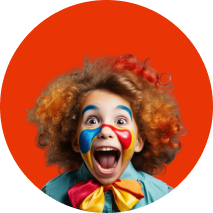
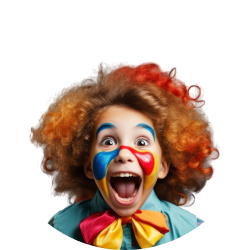
Update animation for media queries

diff --git a/src/components/main/main-page/hero/Hero.tsx b/src/components/main/main-page/hero/Hero.tsx
@@ -9,28 +9,10 @@ const Hero = () => {
   const locale = useLocale();
 
   return (
-    <section className=" 3x:mb-[120px] container relative mx-auto box-border flex max-w-screen-3xl flex-col   items-center justify-center md:mb-10 ml:mb-[120px]  lg:mb-10 xl:mb-10 4xl:mb-0">
-      <div className="group relative flex h-fit w-fit items-center justify-center ">
-        {/* <div className=" absolute  mt-[180px] xs:hidden md:block md:h-[520px] md:w-[650px] ml:h-[627px] ml:w-[810px] lg:h-[657px] lg:w-[950px] 3xl:h-[745px] 3xl:w-[878px]">
-          <div
-            className="3lg:top-[107px] absolute left-0 z-0 h-[329px] w-[329px] cursor-pointer rounded-full bg-yellow
-          transition-all duration-500 group-hover:translate-x-[400px] group-hover:translate-y-[480px] group-hover:bg-red   md:top-[31px]
-          md:h-[220px] md:w-[220px] ml:top-[39px] ml:h-[300px] ml:w-[300px] lg:h-[329px] lg:w-[329px]"
-          ></div>
-
-          <div className="absolute bottom-0 z-10 rounded-full bg-yellow transition-all duration-500 group-hover:translate-x-[186px]  group-hover:translate-y-[-531px] group-hover:bg-blue-50 md:right-[153px] md:h-[153px] md:w-[153px] ml:right-[187px] ml:h-[213px] ml:w-[213px]"></div>
-          <div className="group-hover:bg-green absolute  right-0 top-0 z-10 transition-all duration-500 group-hover:translate-x-[-600px] group-hover:translate-y-[100px]">
-            <Image
-              src="/images/heroSection/red_circle.png"
-              alt=""
-              width={213}
-              height={213}
-              className="  h-[153px] w-[153px]  ml:h-[213px] ml:w-[213px]"
-            />
-          </div>
-        </div> */}
+    <section className="container relative mx-auto box-border flex max-w-screen-3xl flex-col   items-center justify-center md:mb-10 ml:mb-[120px]  lg:mb-10 xl:mb-10 4xl:mb-0">
+      <div className="relative flex h-fit w-fit items-center justify-center ">
         <AnimatedDivs />
-        <div className="relative flex h-[588px] w-[567px] items-center justify-center pt-[100px] custom:h-[770px] custom:w-[869px] md:h-[810px] md:w-[869px] ml:h-[808px] ml:w-[996px]  lg:h-[990px] lg:w-[963px] xl:h-[970px] xl:w-[974px] 3xl:h-[860px] 3xl:w-[1530px] 4xl:h-[1105px] 4xl:w-[1920px]">
+        <div className="relative flex h-[588px] w-[567px] items-center justify-center pt-[100px]  custom:h-[770px] custom:w-[869px] md:h-[810px] md:w-[869px] ml:h-[808px]  ml:w-[996px] lg:h-[990px] lg:w-[963px] xl:h-[970px] xl:w-[974px] 3xl:h-[860px] 3xl:w-[1530px] 4xl:h-[1105px] 4xl:w-[1920px]">
           <picture>
             <source
               media="(max-width: 650px)"
@@ -48,22 +30,19 @@ const Hero = () => {
               media="(max-width: 2560px)"
               srcSet="/images/heroSection/hero_bg_3xl.svg"
             />
-            {/* <source
-            media="(max-width: 2560px)"
-            srcSet="/images/heroSection/hero_bg_4xl.svg"
-          /> */}
+
             <Image
               src="/images/heroSection/hero_bg_3xl.svg"
-              alt="Responsive Hero Logo"
+              alt="BOOP"
               width={1173}
               height={1375}
-              className=" absolute -top-[73px]  left-12 z-[2] w-[567px] custom:left-[100px] custom:h-[900px] custom:w-[869px] md:-top-[128px] md:left-[158px] md:h-auto md:w-[869px] ml:left-[155px] ml:top-0 ml:h-[1008px] ml:w-[868px] lg:h-[1190px] lg:w-[963px] xl:left-[190px] xl:h-[1190px] xl:w-[974px] 2xl:left-[230px] 3xl:left-[535px] 3xl:top-0 3xl:h-[1090px] 3xl:w-[996px] 4xl:left-[743px]  4xl:h-[1380px] 4xl:w-[1173px]
+              className="absolute -top-[73px] left-12  z-[2] w-[567px] blur-[1px] custom:left-[100px] custom:h-[900px] custom:w-[869px] md:-top-[128px] md:left-[158px] md:h-auto md:w-[869px] ml:left-[155px] ml:top-0 ml:h-[1008px] ml:w-[868px] lg:h-[1190px] lg:w-[963px] xl:left-[190px] xl:h-[1190px] xl:w-[974px] 2xl:left-[230px] 3xl:left-[535px] 3xl:top-0 3xl:h-[1090px] 3xl:w-[996px] 4xl:left-[743px]  4xl:h-[1380px] 4xl:w-[1173px]
         "
             />
           </picture>
 
           <div
-            className={`  z-10 flex w-[247px]  flex-col items-center justify-center px-[5px] md:w-[341px] ml:w-[433px] ml:px-5 ${locale === 'en' ? 'gap-3' : 'gap-8'} `}
+            className={`  z-10 flex w-[247px]  flex-col items-center justify-center px-[5px]  md:w-[341px] ml:w-[433px] ml:px-5 ${locale === 'en' ? 'gap-3' : 'gap-8'} `}
           >
             <Image
               src="/images/heroSection/hero_logo.png"

diff --git a/src/components/main/main-page/hero/animatedCircles/AnimateVariants.tsx b/src/components/main/main-page/hero/animatedCircles/AnimateVariants.tsx
@@ -1,0 +1,127 @@
+import { useMediaQuery } from 'react-responsive';
+
+const AnimateVariants = () => {
+  const isTablet = useMediaQuery({
+    query: '(min-width: 768px) and (max-width: 1023px)',
+  });
+  const isDesktopMl = useMediaQuery({
+    query: '(min-width: 1024px) and (max-width: 1199px)',
+  });
+  const isDesktopLg = useMediaQuery({
+    query: '(min-width: 1280px) and (max-width: 1535px)',
+  });
+  const isDesktop3xl = useMediaQuery({
+    query: '(min-width: 1536px) and (max-width: 1919px)',
+  });
+  const isDesktop4xl = useMediaQuery({
+    query: '(min-width: 1920px)',
+  });
+
+  let positionX1Variant;
+  let positionX2Variant;
+  let positionX3Variant;
+  let positionY1Variant;
+  let positionY2Variant;
+  let positionY3Variant;
+
+  switch (true) {
+    case isTablet:
+      positionX1Variant = [0, 310, 455, 0];
+      positionX2Variant = [0, 152, -350, 0];
+      positionX3Variant = [0, -500, -152, 0];
+      positionY1Variant = [0, 305, -100, 0];
+      positionY2Variant = [0, -365, -310, 0];
+      positionY3Variant = [0, 57, 368, 0];
+      break;
+    case isDesktopMl:
+      positionX1Variant = [0, 380, 560, 0];
+      positionX2Variant = [0, 187, -415, 0];
+      positionX3Variant = [0, -600, -187, 0];
+      positionY1Variant = [0, 340, -120, 0];
+      positionY2Variant = [0, -415, -340, 0];
+      positionY3Variant = [0, 75, 412, 0];
+      break;
+    case isDesktopLg:
+      positionX1Variant = [0, 500, 680, 0];
+      positionX2Variant = [0, 187, -480, 0];
+      positionX3Variant = [0, -680, -187, 0];
+      positionY1Variant = [0, 340, -130, 0];
+      positionY2Variant = [0, -442, -340, 0];
+      positionY3Variant = [0, 100, 443, 0];
+      break;
+    case isDesktop3xl:
+      positionX1Variant = [0, 430, 600, 0];
+      positionX2Variant = [0, 187, -450, 0];
+      positionX3Variant = [0, -620, -187, 0];
+      positionY1Variant = [0, 420, -100, 0];
+      positionY2Variant = [0, -530, -420, 0];
+      positionY3Variant = [0, 100, 533, 0];
+      break;
+    case isDesktop4xl:
+      positionX1Variant = [0, 410, 600, 0];
+      positionX2Variant = [0, 196, -470, 0];
+      positionX3Variant = [0, -650, -185, 0];
+      positionY1Variant = [0, 400, -100, 0];
+      positionY2Variant = [0, -551, -390, 0];
+      positionY3Variant = [0, 140, 530, 0];
+      break;
+    default:
+      positionX1Variant = [0, 380, 600, 0];
+      positionX2Variant = [0, 196, -470, 0];
+      positionX3Variant = [0, -650, -200, 0];
+      positionY1Variant = [0, 390, -150, 0];
+      positionY2Variant = [0, -551, -390, 0];
+      positionY3Variant = [0, 140, 510, 0];
+  }
+
+  return {
+    div1Variants: {
+      initial: { x: 0, y: 0 },
+      animate: {
+        x: positionX1Variant,
+        y: positionY1Variant,
+        transition: {
+          duration: 6,
+          ease: 'easeOut',
+          times: [0, 0.33, 0.67, 1],
+          exit: { x: 0, y: 0 },
+        },
+      },
+    },
+
+    div2Variants: {
+      initial: { x: 0, y: 0 },
+      animate: {
+        x: positionX2Variant,
+        y: positionY2Variant,
+        transition: {
+          duration: 6,
+          ease: 'easeOut',
+          times: [0, 0.33, 0.67, 1],
+          exit: { x: 0, y: 0 },
+        },
+      },
+    },
+
+    div3Variants: {
+      initial: { x: 0, y: 0 },
+      animate: {
+        x: positionX3Variant,
+        y: positionY3Variant,
+        transition: {
+          duration: 6,
+          ease: 'easeOut',
+          times: [0, 0.33, 0.67, 1],
+          exit: { x: 0, y: 0 },
+        },
+      },
+    },
+
+    imageVariants: {
+      hidden: { opacity: 0, y: 150, z: -10 },
+      visible: { opacity: 1, y: 0, transition: { duration: 0.5, delay: 6 } },
+    },
+  };
+};
+
+export default AnimateVariants;

diff --git a/src/components/main/main-page/hero/animatedCircles/AnimatedCircles.tsx b/src/components/main/main-page/hero/animatedCircles/AnimatedCircles.tsx
@@ -1,51 +1,12 @@
 import { motion } from 'framer-motion';
-import Image from 'next/image';
-
-const div1Variants = {
-  initial: { x: 0, y: 0 },
-  animate: {
-    x: [0, 380, 600, 0],
-    y: [0, 390, -150, 0],
-    transition: {
-      duration: 8,
-      ease: 'backOut',
-      times: [0, 0.33, 0.67, 1],
-      exit: { x: 0, y: 0 },
-    },
-  },
-};
-
-const div2Variants = {
-  initial: { x: 0, y: 0 },
-  animate: {
-    x: [0, 196, -470, 0],
-    y: [0, -551, -390, 0],
-    transition: {
-      duration: 8,
-      ease: 'backOut',
-      times: [0, 0.33, 0.67, 1],
-      exit: { x: 0, y: 0 },
-    },
-  },
-};
-
-const div3Variants = {
-  initial: { x: 0, y: 0 },
-  animate: {
-    x: [0, -650, -200, 0],
-    y: [0, 140, 510, 0],
-    transition: {
-      duration: 8,
-      ease: 'backOut',
-      times: [0, 0.33, 0.67, 1],
-      exit: { x: 0, y: 0 },
-    },
-  },
-};
+import AnimateVariants from './AnimateVariants';
 
 const AnimatedDivs = () => {
+  const { div1Variants, div2Variants, div3Variants, imageVariants } =
+    AnimateVariants();
+
   return (
-    <div className="absolute mt-[180px] xs:hidden md:block md:h-[520px] md:w-[650px] ml:h-[627px] ml:w-[810px] lg:h-[657px] lg:w-[950px] 3xl:h-[745px] 3xl:w-[878px]">
+    <div className="absolute mt-[180px] hidden md:block md:h-[520px] md:w-[650px] ml:h-[627px] ml:w-[810px] lg:h-[657px] lg:w-[950px] 3xl:h-[745px] 3xl:w-[878px]">
       <motion.div
         className="3lg:top-[107px] absolute left-0 z-0 h-[329px] w-[329px] cursor-pointer rounded-full bg-yellow  md:top-[31px] md:h-[220px] md:w-[220px] ml:top-[39px] ml:h-[300px] ml:w-[300px] lg:h-[329px] lg:w-[329px]"
         variants={div1Variants}
@@ -59,16 +20,19 @@ const AnimatedDivs = () => {
         animate="animate"
       />
       <motion.div
-        className="absolute right-0 top-0 z-10 "
+        className="absolute right-0 top-0 z-10 h-[153px] w-[153px] overflow-hidden rounded-full bg-red ml:h-[213px] ml:w-[213px]"
         variants={div3Variants}
         initial="initial"
         animate="animate"
       >
-        <Image
+        <motion.img
           src="/images/heroSection/red_circle.png"
           alt=""
           width={213}
           height={213}
+          initial="hidden"
+          animate="visible"
+          variants={imageVariants}
           className="h-[153px] w-[153px] ml:h-[213px] ml:w-[213px]"
         />
       </motion.div>
